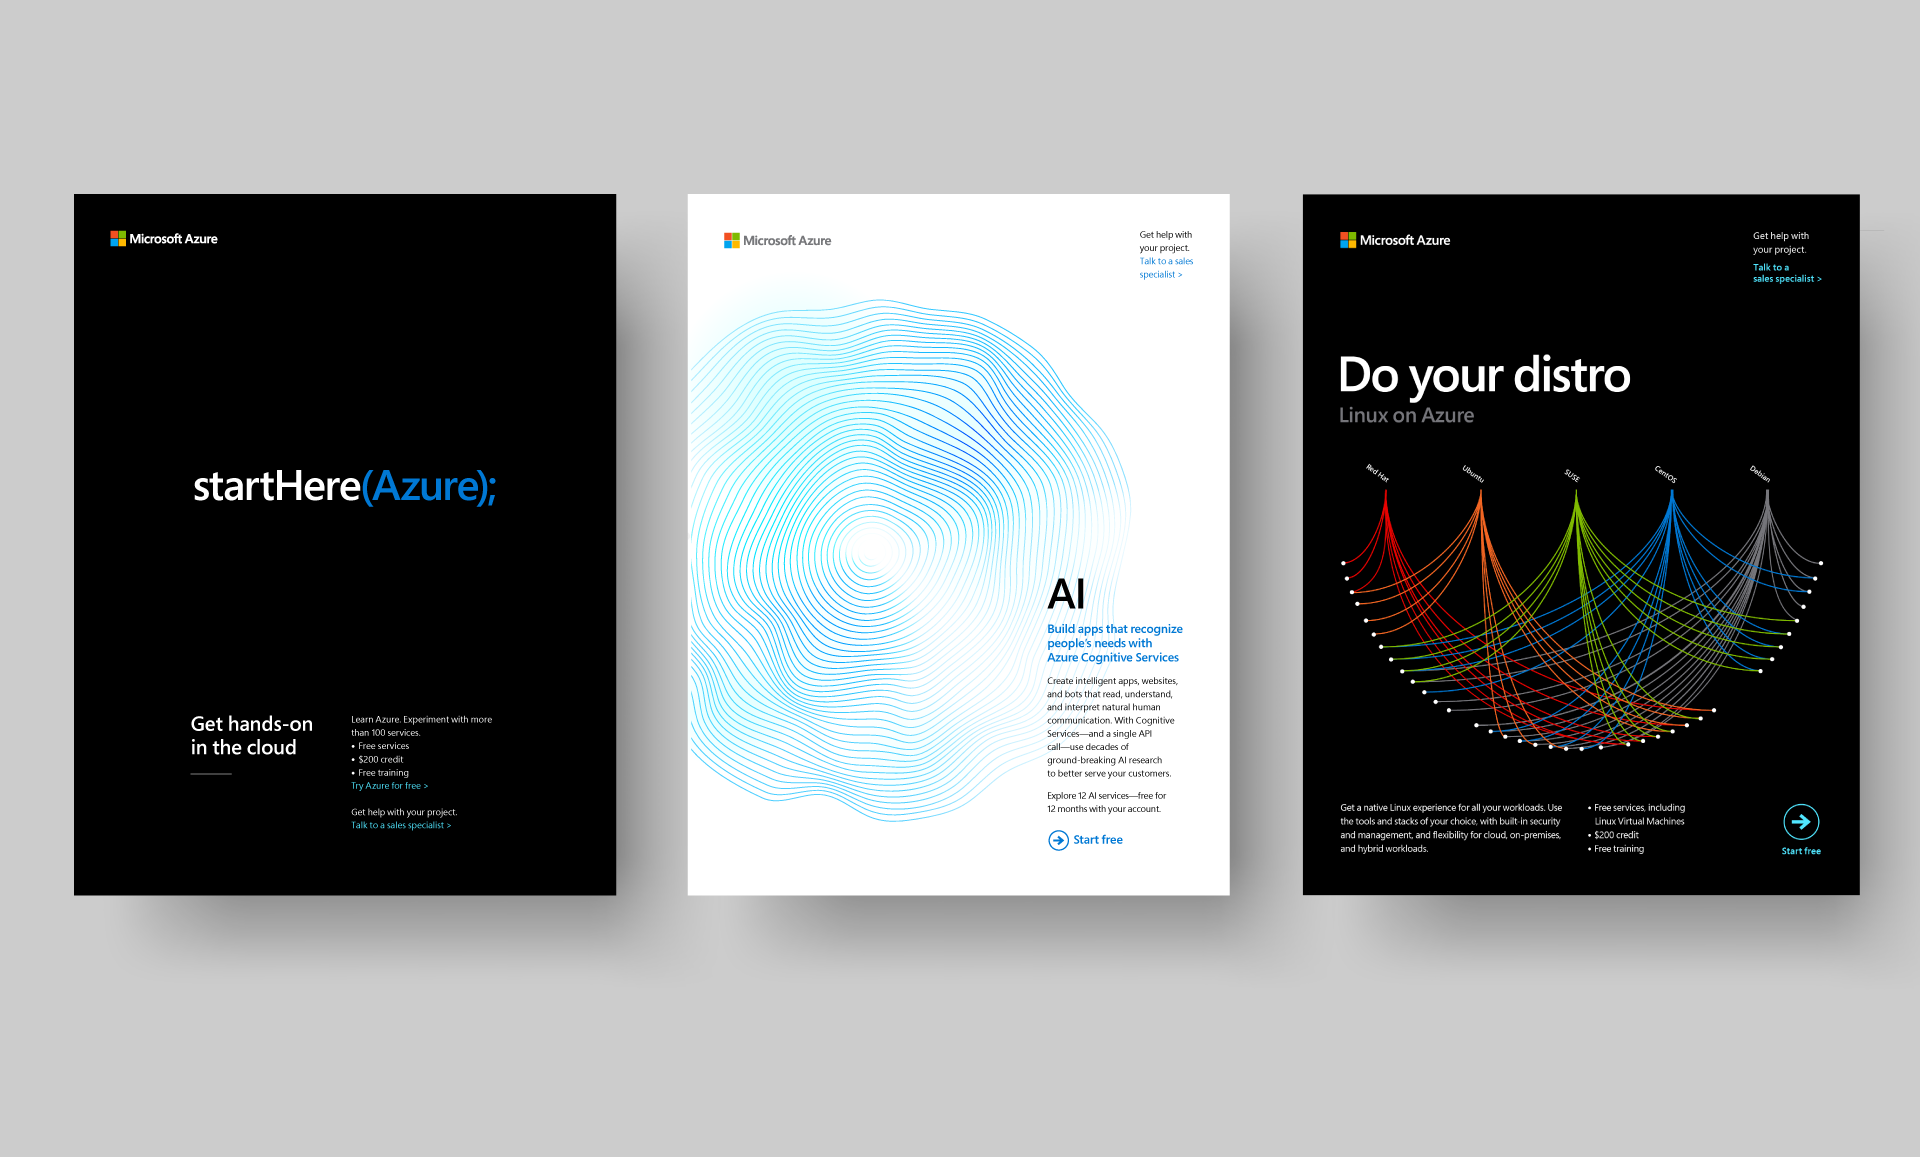
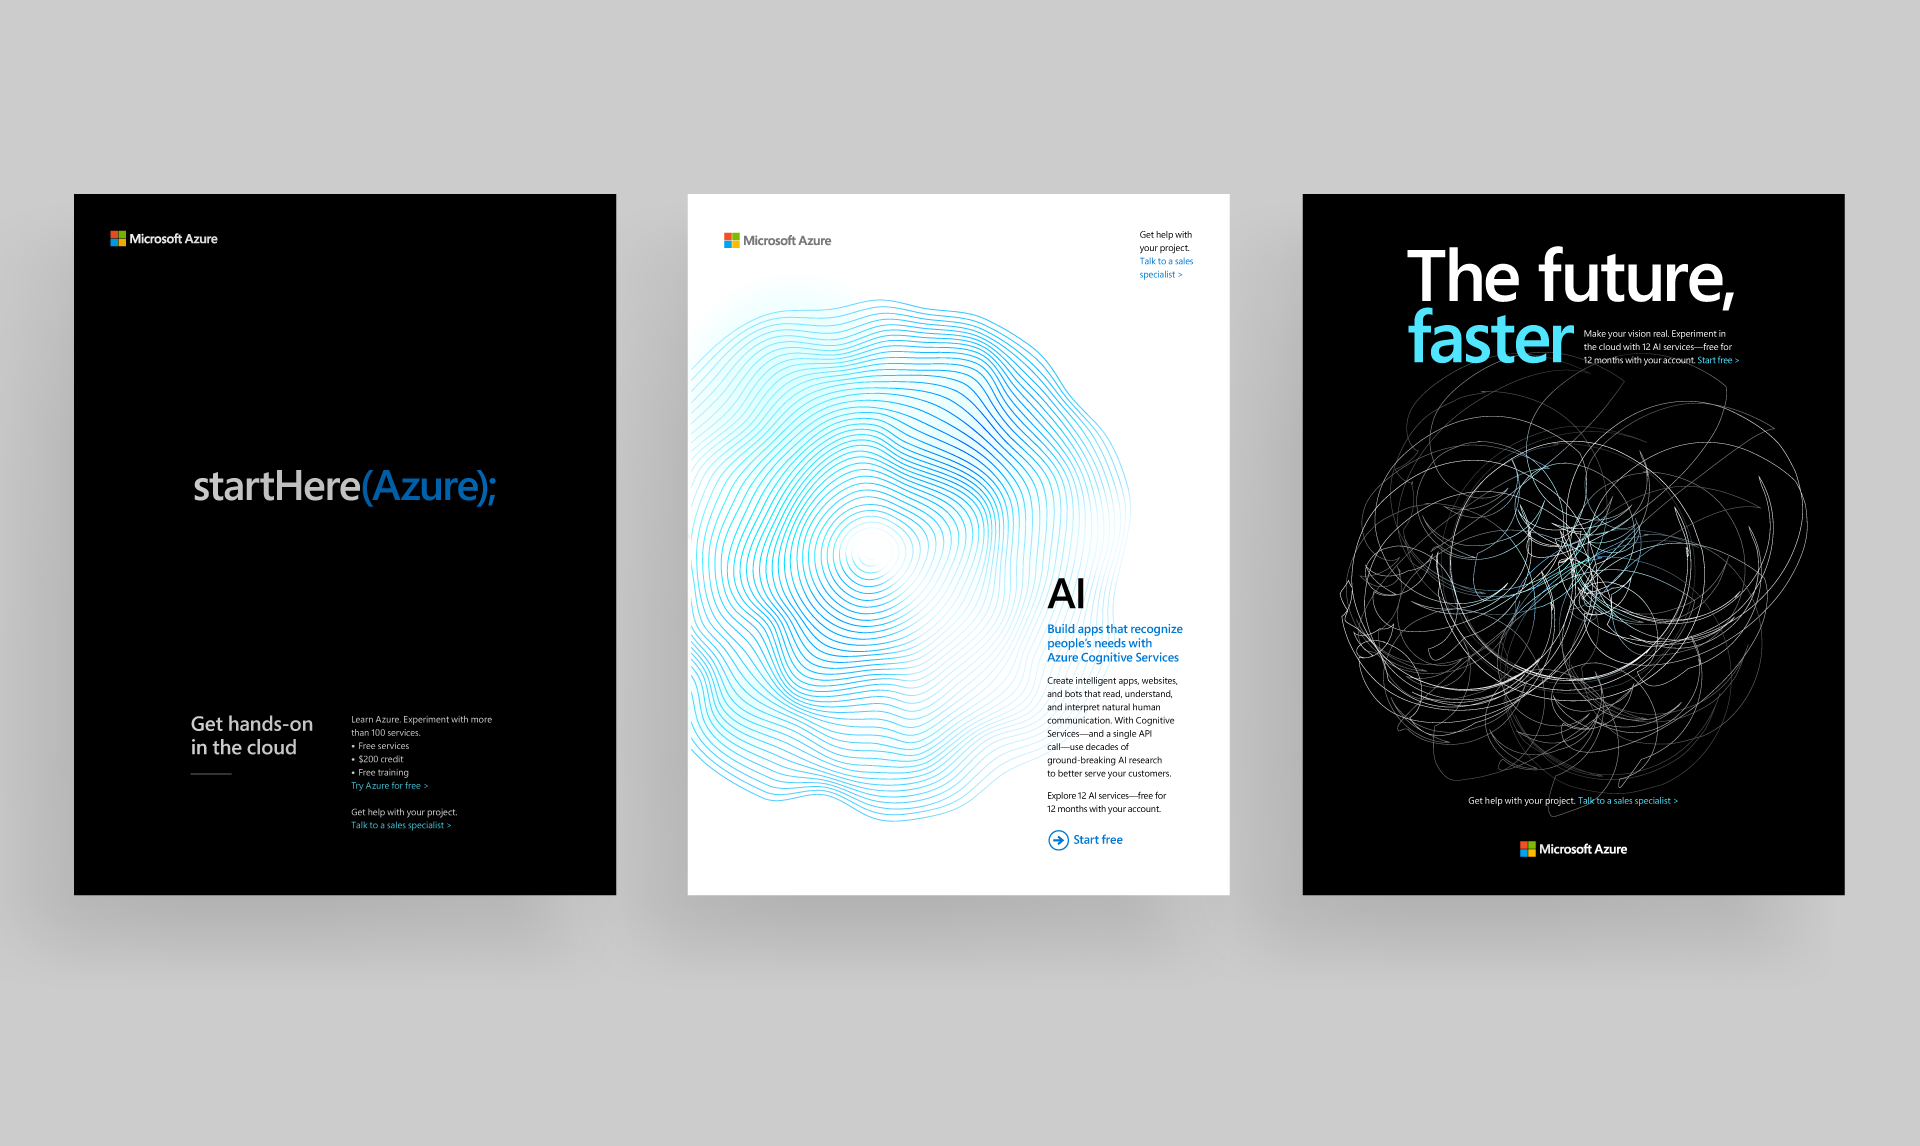
images

diff --git a/project_ms_azure_ads.html b/project_ms_azure_ads.html
@@ -92,6 +92,10 @@
           <figure class="m-item wide">
             <img src="./assets/MS_Azure_Ad_lifestyle_mockup3.jpg" alt="..." loading="lazy">
           </figure>
+
+          <figure class="m-item wide">
+            <img src="./assets/MS_Azure_Ad_lifestyle_mockup4.jpg" alt="..." loading="lazy">
+          </figure>
         </section>
 
         <section id="projects" class="section">
